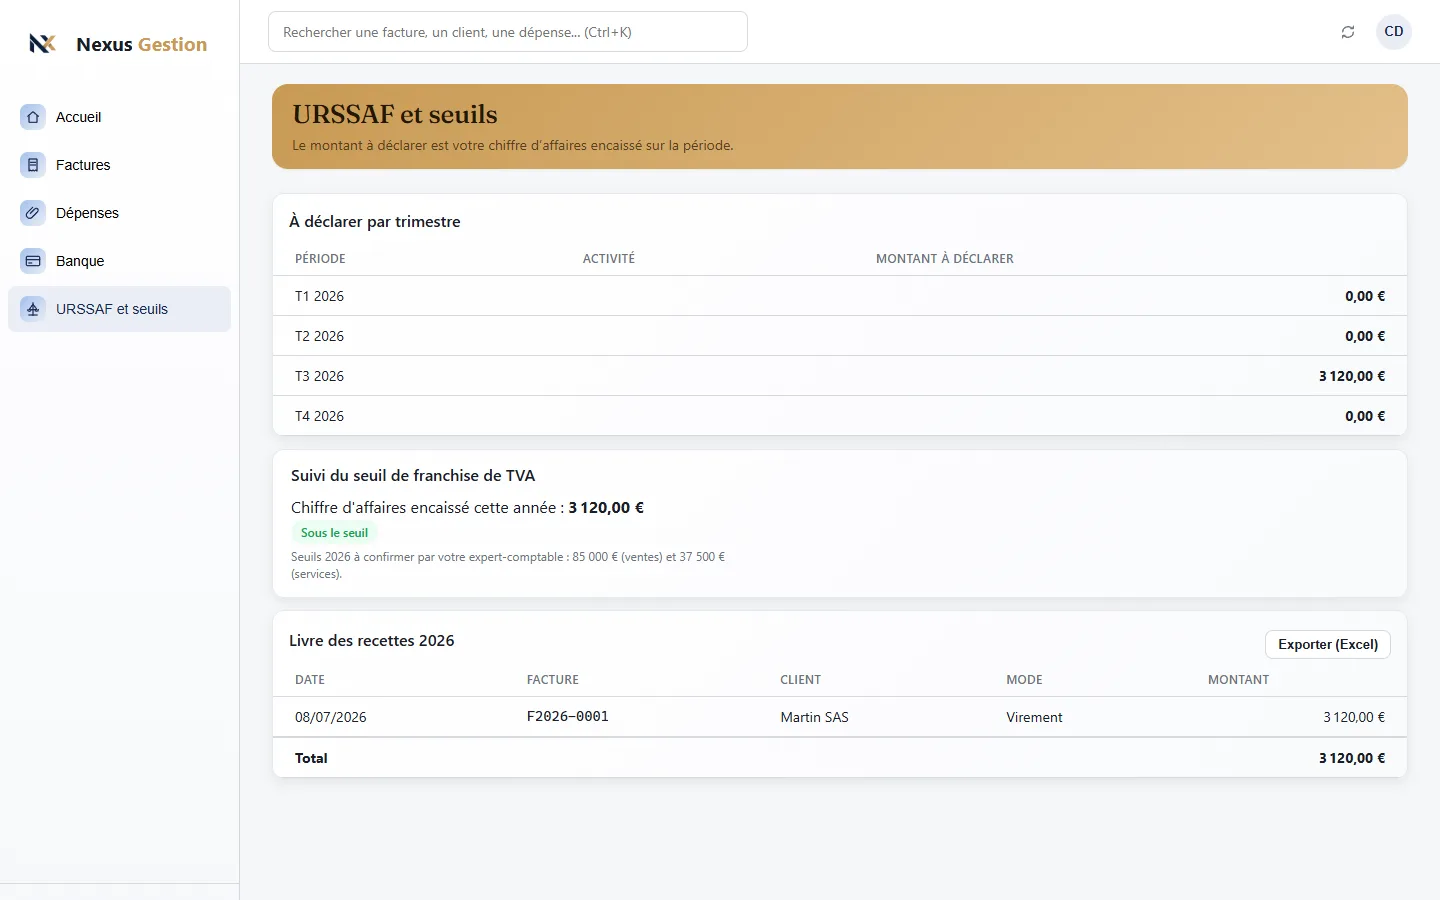
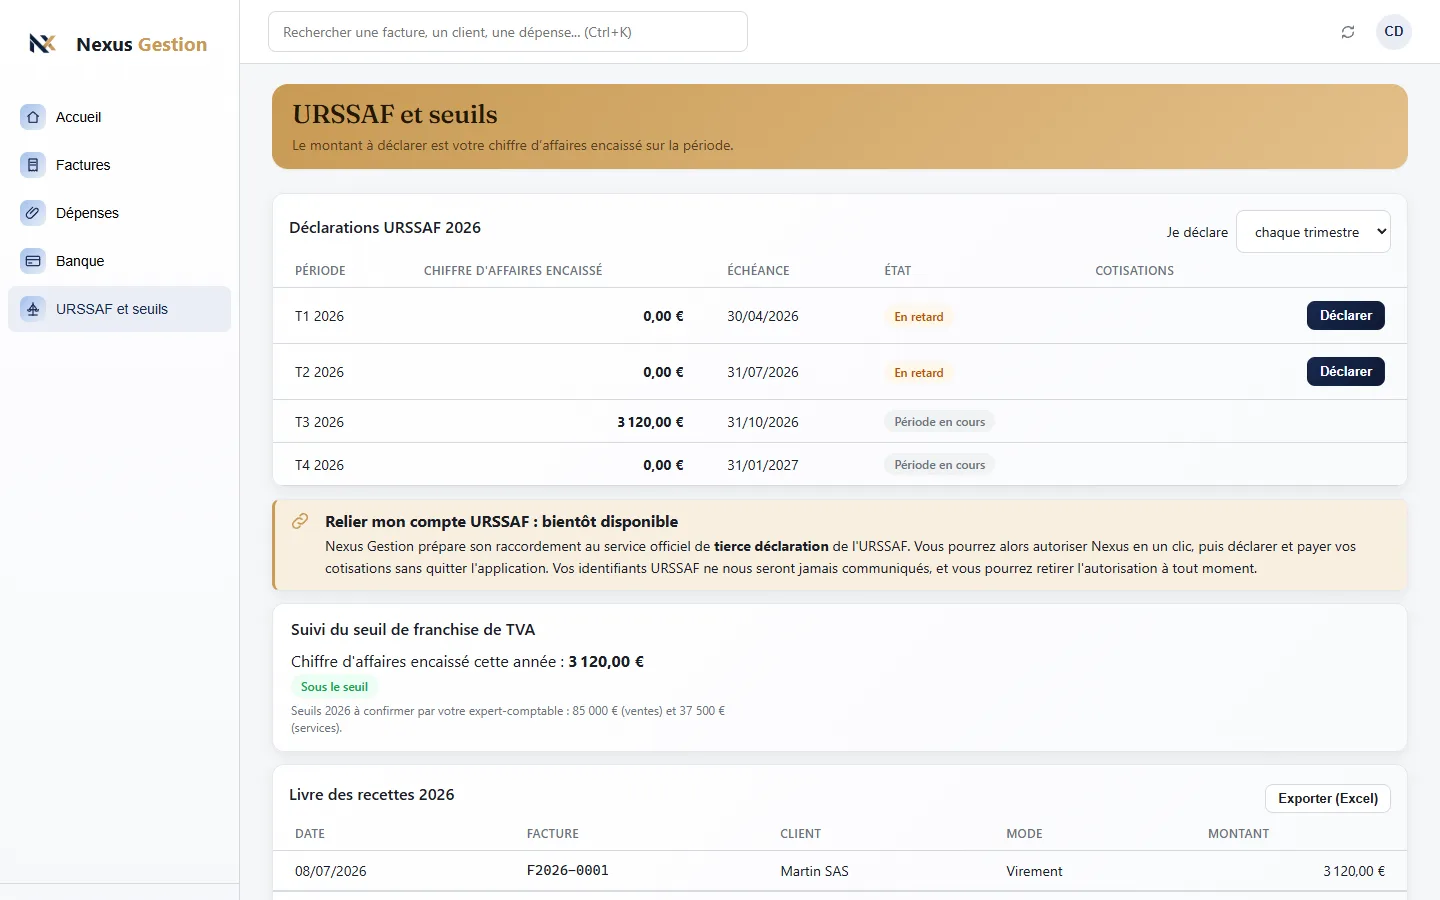
Déclarations URSSAF guidées

diff --git a/app/app.js b/app/app.js
@@ -28,7 +28,7 @@ import { computeTotals, checkInvoice, InvoiceError, isValidSiren, isVatExempt, l
 import { parseBankCsv, parseOfx, reconciliationStatement } from '../core/bank.js';
 import { trialBalance, generalLedger, exportFEC, checkFEC, journalReport } from '../core/reports.js';
 import { JOURNALS, Ledger } from '../core/ledger.js';
-import { declarationPeriods, urssafDeclaration, thresholdStatus, receiptsBook, ACTIVITY_TYPES } from '../core/micro.js';
+import { thresholdStatus, receiptsBook } from '../core/micro.js';
 import { buildCii, checkEn16931, ciiFileName } from '../core/einvoice.js';
 import { trialBalanceCsv, generalLedgerCsv, journalsCsv } from '../core/exports.js';
 import { fixedAssets } from '../core/assets.js';
@@ -957,7 +957,7 @@ function viewHome() {
   const d = ws.dashboard(t);
   const todo = ws.todo(t);
   const kpi = (iconName, value, label, href, hero) => html`<a class="kpi-card${hero ? ' kpi-card-hero' : ''}" href="${href}" style="text-decoration:none;color:inherit"><div class="kpi-icon">${raw(ICONS[iconName])}</div><div class="kpi-value">${eur(value)}</div><div class="kpi-label">${label}</div></a>`;
-  const todoIcon = { bank: 'card', late: 'bell', draft: 'pencil', receipt: 'paperclip', vat: 'percent' };
+  const todoIcon = { bank: 'card', late: 'bell', draft: 'pencil', receipt: 'paperclip', vat: 'percent', urssaf: 'scale' };
   return html`
     <div class="dashboard-hero">
       <div class="dashboard-hero-text"><h1>Accueil</h1><p>Voici ce qui demande votre attention aujourd'hui.</p></div>
@@ -1555,14 +1555,60 @@ function viewCa3(months) {
 
 // ------------------------------------------------------------------ micro-entrepreneur
 
-function microReceipts() {
-  const out = [];
-  for (const inv of ws.book.invoices) {
-    for (const p of ws.book.payments[inv.id] || []) {
-      out.push({ date: p.date, invoiceNumber: inv.number, clientName: inv.client.name, amount: p.amount, method: 'Virement', activity: ws.company.microActivity || 'bnc' });
-    }
-  }
-  return out;
+const microReceipts = () => ws.microReceipts();
+
+const URSSAF_SITE = 'https://www.autoentrepreneur.urssaf.fr/portail/accueil.html';
+const URSSAF_STATUS = {
+  'en-cours': ['Période en cours', 'muted'],
+  'a-declarer': ['À déclarer', 'warning'],
+  'en-retard': ['En retard', 'warning'],
+  declaree: ['Déclarée, à payer', 'info'],
+  'rien-a-payer': ['Déclarée, rien à payer', 'success'],
+  payee: ['Payée', 'success'],
+};
+
+/** Déclarations URSSAF de l'année : montant, échéance, état, et parcours « Déclarer ». */
+function urssafCard(year) {
+  const periods = ws.urssafPeriods(year, today());
+  const open = periods.find((p) => p.from === ui.urssafDeclare);
+  const freq = ws.company.urssafFrequency || 'trimestrielle';
+  return html`<div class="card table-card">
+    <div style="display:flex;justify-content:space-between;align-items:center;gap:12px;flex-wrap:wrap;padding:16px 16px 0">
+      <h2>Déclarations URSSAF ${year}</h2>
+      <label style="display:flex;gap:8px;align-items:center;font-size:14px">Je déclare
+        <select class="input" data-urssaf-frequency style="width:auto">${opt('trimestrielle', 'chaque trimestre', freq === 'trimestrielle')}${opt('mensuelle', 'chaque mois', freq === 'mensuelle')}</select></label>
+    </div>
+    <div class="table-scroll"><table class="table"><thead><tr><th>Période</th><th class="num">Chiffre d'affaires encaissé</th><th>Échéance</th><th>État</th><th class="num">Cotisations</th><th></th></tr></thead><tbody>
+      ${periods.map((p) => html`<tr>
+        <td>${p.label}</td>
+        <td class="num"><strong>${eur(p.turnover)}</strong></td>
+        <td>${frDate(p.deadline)}</td>
+        <td>${badge(...URSSAF_STATUS[p.status])}${p.record?.paidAt ? html` <span class="text-muted" style="font-size:12px">le ${frDate(p.record.paidAt)}</span>` : ''}</td>
+        <td class="num">${p.record ? eur(p.record.contributions) : ''}</td>
+        <td class="num">${p.status === 'a-declarer' || p.status === 'en-retard' ? html`<button class="btn btn-primary btn-sm" data-action="urssaf-declare-open" data-from="${p.from}">Déclarer</button>` : ''}</td>
+      </tr>`)}
+    </tbody></table></div>
+    ${open ? urssafDeclarePanel(open) : ''}
+  </div>`;
+}
+
+function urssafDeclarePanel(p) {
+  return html`<div style="padding:16px;border-top:1px solid var(--color-border);display:flex;flex-direction:column;gap:14px">
+    <h3 style="margin:0">Déclarer ${p.label}</h3>
+    <ol class="landing-steps" style="margin:0">
+      <li><span class="landing-step-num">1</span><span class="landing-step-text">Chiffre d'affaires à déclarer : <strong>${eur(p.turnover)}</strong> (encaissé du ${frDate(p.from)} au ${frDate(p.to)}).
+        <button class="btn btn-secondary btn-sm" data-action="urssaf-copy" data-amount="${(p.turnover / 100).toFixed(2).replace('.', ',')}" style="margin-left:6px">Copier le montant</button></span></li>
+      <li><span class="landing-step-num">2</span><span class="landing-step-text">Déclarez-le sur votre espace URSSAF et validez le paiement par prélèvement.
+        <a class="btn btn-gold btn-sm" href="${URSSAF_SITE}" target="_blank" rel="noopener" style="margin-left:6px">Ouvrir mon espace URSSAF</a></span></li>
+      <li><span class="landing-step-num">3</span><span class="landing-step-text">Reportez ici le montant des cotisations calculé par l'URSSAF :</span></li>
+    </ol>
+    <div style="display:flex;gap:8px;align-items:flex-end;flex-wrap:wrap">
+      ${field('Cotisations calculées par l’URSSAF', html`<input class="input" data-urssaf-contributions inputmode="decimal" placeholder="0,00" style="max-width:200px">`)}
+      <button class="btn btn-primary" data-action="urssaf-declare" data-from="${p.from}" style="margin-bottom:2px">Enregistrer la déclaration</button>
+      <button class="btn btn-secondary" data-action="urssaf-declare-cancel" style="margin-bottom:2px">Annuler</button>
+    </div>
+    <p class="form-hint" style="margin:0">Quand le prélèvement apparaît sur votre relevé, classez-le en « Cotisations URSSAF » dans l'écran Banque : la déclaration passe automatiquement à « Payée ».</p>
+  </div>`;
 }
 
 function thresholdCard(s) {
@@ -1577,8 +1623,12 @@ function viewUrssaf() {
   const book = receiptsBook(receipts, { from: `${year}-01-01`, to: `${year}-12-31` });
   return html`
     ${viewHeader('URSSAF et seuils', 'Le montant à déclarer est votre chiffre d’affaires encaissé sur la période.')}
-    <div class="card table-card"><h2 style="padding:16px 16px 0">À déclarer par trimestre</h2><table class="table"><thead><tr><th>Période</th><th>Activité</th><th class="num">Montant à déclarer</th></tr></thead><tbody>
-      ${declarationPeriods(year).map((p) => html`<tr><td>${p.label}</td><td>${ACTIVITY_TYPES[ws.company.microActivity]?.label}</td><td class="num"><strong>${eur(urssafDeclaration(receipts, p).total)}</strong></td></tr>`)}</tbody></table></div>
+    ${urssafCard(year)}
+    <div class="card notice-gold" style="display:flex;gap:14px;align-items:flex-start">
+      <span style="color:var(--landing-gold-500)">${icon('link', 22)}</span>
+      <div><h3 style="margin:0 0 4px">Relier mon compte URSSAF : bientôt disponible</h3>
+      <p style="margin:0;font-size:14px;line-height:1.6">Nexus Gestion prépare son raccordement au service officiel de <strong>tierce déclaration</strong> de l'URSSAF. Vous pourrez alors autoriser Nexus en un clic, puis déclarer et payer vos cotisations sans quitter l'application. Vos identifiants URSSAF ne nous seront jamais communiqués, et vous pourrez retirer l'autorisation à tout moment.</p></div>
+    </div>
     <div class="card">${thresholdCard(thresholdStatus(receipts, year))}</div>
     <div class="card table-card">
       <div class="view-header-row" style="display:flex;justify-content:space-between;align-items:center;padding:16px 16px 0"><h2>Livre des recettes ${year}</h2><button class="btn btn-secondary btn-sm" data-action="export-receipts">Exporter (Excel)</button></div>
@@ -2010,6 +2060,12 @@ document.addEventListener('input', (e) => {
 document.addEventListener('change', async (e) => {
   const el = e.target;
   if (el.dataset.statement !== undefined) return render();
+  if (el.dataset.urssafFrequency !== undefined) {
+    ws.company.urssafFrequency = el.value;
+    ui.urssafDeclare = null;
+    save();
+    return render();
+  }
   if (el.dataset.action === 'settings-fec-file' && el.files[0]) {
     try {
       ui.pendingOpening = { opening: await readOpeningFile(el.files[0]), fileName: el.files[0].name };
@@ -2488,6 +2544,34 @@ document.addEventListener('click', async (e) => {
         toast(err.message, true);
       }
       return;
+    case 'urssaf-declare-open':
+      ui.urssafDeclare = el.dataset.from;
+      return render();
+    case 'urssaf-declare-cancel':
+      ui.urssafDeclare = null;
+      return render();
+    case 'urssaf-copy':
+      try {
+        await navigator.clipboard.writeText(el.dataset.amount);
+        toast(`Montant copié : ${el.dataset.amount} €`);
+      } catch {
+        toast(`Montant à déclarer : ${el.dataset.amount} €`);
+      }
+      return;
+    case 'urssaf-declare': {
+      const p = ws.urssafPeriods(Number(el.dataset.from.slice(0, 4)), today()).find((x) => x.from === el.dataset.from);
+      const raw = document.querySelector('[data-urssaf-contributions]').value.trim();
+      if (!raw) return toast('Indiquez le montant des cotisations calculé par l’URSSAF (0 si aucun chiffre d’affaires).', true);
+      try {
+        ws.recordUrssafDeclaration({ from: p.from, to: p.to, turnover: p.turnover, contributions: parseEuros(raw), date: today() });
+      } catch (err) {
+        return toast(err.message.startsWith('Montant invalide') ? 'Le montant des cotisations n’est pas valide.' : err.message, true);
+      }
+      ui.urssafDeclare = null;
+      save();
+      render();
+      return toast(`Déclaration ${p.label} enregistrée.`);
+    }
     case 'archive-open':
       return openArchive(el.dataset.key).catch((err) => toast(cloud.friendly(err), true));
     case 'archive-fec':

diff --git a/core/workspace.js b/core/workspace.js
@@ -13,6 +13,7 @@ import { divRound, splitTtc, sum } from './money.js';
 import { openingEntry } from './fecimport.js';
 import { prepareCa3, prepareCa12, ca12Advances, liquidationEntry } from './vatreturn.js';
 import { LIFECYCLE } from './lifecycle.js';
+import { declarationPeriods, urssafDeclaration, urssafDeadline } from './micro.js';
 import { inventoryEntry, depreciationEntry, incomeStatement, corporateTax, corporateTaxEntry, resultEntry, nextYearOpening, allocationEntry } from './closing.js';
 import { validateTemplate, dueOccurrences, periodLabel } from './recurring.js';
 
@@ -31,6 +32,7 @@ export const OUTFLOW_CATEGORIES = [
   { id: 'paiement-tva', label: 'Paiement de la TVA', account: '445510' },
   { id: 'acompte-tva', label: 'Acompte de TVA (régime simplifié, juillet ou décembre)', account: '445810' },
   { id: 'acompte-is', label: 'Acompte ou solde d’impôt sur les sociétés', account: '444000' },
+  { id: 'cotisations-urssaf', label: 'Cotisations URSSAF', account: '646000' },
   { id: 'remboursement-emprunt', label: "Remboursement d'emprunt (capital)", account: '164000' },
   { id: 'prelevement-personnel', label: 'Prélèvement personnel du dirigeant', account: '108000' },
   { id: 'remboursement-associe', label: 'Remboursement du compte courant d’associé', account: '455000' },
@@ -408,6 +410,7 @@ export class Workspace {
       const e = this.ledger.addDraft(directEntry(tx, { account: income.account, missingReceipt: false }));
       tx.status = 'matched';
       tx.entryId = e.id;
+      if (categoryId === 'cotisations-urssaf') this.#markUrssafPaid(tx);
       return e;
     }
     const cat = categoryById(categoryId);
@@ -456,6 +459,66 @@ export class Workspace {
   }
 
   /** Liste « À faire » classée par urgence (§5). */
+  // ---------------------------------------------------------------- URSSAF (micro-entrepreneur)
+
+  /** Encaissements de l'année (base du chiffre d'affaires à déclarer en micro-entreprise). */
+  microReceipts() {
+    const out = [];
+    for (const inv of this.book.invoices) {
+      for (const p of this.book.payments[inv.id] || []) {
+        out.push({ date: p.date, invoiceNumber: inv.number, clientName: inv.client.name, amount: p.amount, method: 'Virement', activity: this.company.microActivity || 'bnc' });
+      }
+    }
+    return out;
+  }
+
+  get urssafDeclarations() {
+    return this.company.urssafDeclarations || [];
+  }
+
+  /** Périodes de l'année avec leur montant, leur échéance et leur état (à déclarer, déclarée, payée). */
+  urssafPeriods(year, today) {
+    const receipts = this.microReceipts();
+    // Rien avant le premier exercice tenu dans Nexus (les périodes antérieures ont été déclarées ailleurs).
+    const since = this.archives?.[0]?.fiscalYear.start || this.company.fiscalYear.start;
+    return declarationPeriods(year, this.company.urssafFrequency || 'trimestrielle').filter((p) => p.to >= since).map((p) => {
+      const record = this.urssafDeclarations.find((r) => r.from === p.from);
+      const deadline = urssafDeadline(p);
+      const status = record && !record.contributions ? 'rien-a-payer' : record?.paidAt ? 'payee' : record ? 'declaree' : p.to >= today ? 'en-cours' : deadline < today ? 'en-retard' : 'a-declarer';
+      return { ...p, turnover: urssafDeclaration(receipts, p).total, deadline, record, status };
+    });
+  }
+
+  /** Enregistre la déclaration faite sur autoentrepreneur.urssaf.fr (chiffre d'affaires et cotisations calculées par l'URSSAF). */
+  recordUrssafDeclaration({ from, to, turnover, contributions, date }) {
+    if (this.urssafDeclarations.some((r) => r.from === from)) throw new Error('Cette période a déjà été déclarée.');
+    if (!Number.isSafeInteger(contributions) || contributions < 0) throw new Error('Le montant des cotisations est invalide.');
+    const record = { from, to, turnover, contributions, declaredAt: date, paidAt: null, txId: null };
+    this.company.urssafDeclarations = [...this.urssafDeclarations, record];
+    return record;
+  }
+
+  /** Un prélèvement « Cotisations URSSAF » solde la plus ancienne déclaration non payée du même montant. */
+  #markUrssafPaid(tx) {
+    const record = [...this.urssafDeclarations]
+      .sort((a, b) => a.from.localeCompare(b.from))
+      .find((r) => !r.paidAt && r.contributions === Math.abs(tx.amount));
+    if (!record) return;
+    this.company.urssafDeclarations = this.urssafDeclarations.map((r) => (r === record ? { ...r, paidAt: tx.date, txId: tx.id } : r));
+  }
+
+  #urssafTodo(today) {
+    if (!this.company.taxRegime?.startsWith('micro')) return [];
+    const year = Number(today.slice(0, 4));
+    const periods = [...this.urssafPeriods(year - 1, today), ...this.urssafPeriods(year, today)];
+    const pending = periods.find((p) => p.status === 'en-retard' || p.status === 'a-declarer');
+    if (!pending) return [];
+    const fr = (d) => d.split('-').reverse().join('/');
+    return [{ urgency: pending.status === 'en-retard' ? 3 : 2, kind: 'urssaf', view: 'urssaf', text: pending.status === 'en-retard'
+      ? `Déclaration URSSAF ${pending.label} en retard (échéance du ${fr(pending.deadline)})`
+      : `Déclarer votre chiffre d'affaires ${pending.label} à l'URSSAF avant le ${fr(pending.deadline)}` }];
+  }
+
   todo(today) {
     const items = [];
     const open = this.transactions.filter((t) => t.status === 'open');
@@ -469,6 +532,7 @@ export class Workspace {
     const noReceipt = this.transactions.filter((t) => t.missingReceipt);
     if (noReceipt.length) items.push({ urgency: 1, kind: 'receipt', view: 'banque', text: `${noReceipt.length} dépense${noReceipt.length > 1 ? 's' : ''} sans justificatif` });
     items.push(...this.#vatTodo(today));
+    items.push(...this.#urssafTodo(today));
     return items.sort((a, b) => b.urgency - a.urgency);
   }
 

diff --git a/app/features.js b/app/features.js
@@ -197,13 +197,15 @@ export const FEATURE_PAGES = [
     slug: 'micro',
     icon: 'scale',
     title: 'Micro-entrepreneur',
-    text: 'Livre des recettes, montant à déclarer à l’URSSAF chaque trimestre et alerte avant de dépasser les seuils de TVA.',
+    text: 'Livre des recettes, déclaration URSSAF guidée et suivie jusqu’au paiement, alerte avant de dépasser les seuils de TVA.',
     lead: 'La micro-entreprise a ses propres règles : pas de comptabilité complète, mais un livre des recettes, une déclaration à l’URSSAF et des seuils à surveiller. Nexus s’adapte et vous montre uniquement ce qui vous concerne.',
     images: [
-      { src: 'features/micro.webp', alt: 'Écran URSSAF et seuils : montants à déclarer par trimestre, suivi du seuil de TVA et livre des recettes', caption: 'Tout sur un seul écran : le montant à déclarer à l’URSSAF pour chaque trimestre, votre position par rapport au seuil de franchise de TVA et votre livre des recettes.' },
+      { src: 'features/micro.webp', alt: 'Écran URSSAF et seuils : montants à déclarer par trimestre, suivi du seuil de TVA et livre des recettes', caption: 'Chaque période avec son chiffre d’affaires encaissé, son échéance et son état (à déclarer, en retard, déclarée, payée). Le bouton « Déclarer » ouvre le parcours guidé.' },
     ],
     benefits: [
-      { title: 'Le montant URSSAF prêt chaque trimestre', text: 'Le montant à déclarer est votre chiffre d’affaires réellement encaissé sur la période, et non facturé. Nexus le calcule à partir des paiements reçus, trimestre par trimestre.' },
+      { title: 'Le montant URSSAF prêt chaque trimestre ou chaque mois', text: 'Le montant à déclarer est votre chiffre d’affaires réellement encaissé sur la période, et non facturé. Nexus le calcule à partir des paiements reçus, selon votre rythme de déclaration (trimestriel ou mensuel).' },
+      { title: 'Déclaration guidée, suivie jusqu’au paiement', text: 'Un bouton « Déclarer » copie le montant, ouvre votre espace URSSAF et vous invite à reporter les cotisations calculées. Chaque période affiche son échéance et son état : à déclarer, en retard, déclarée, payée. Le prélèvement de l’URSSAF, classé en « Cotisations URSSAF » dans Banque, solde automatiquement la déclaration.' },
+      { title: 'Rappel avant chaque échéance', text: 'La prochaine déclaration apparaît dans votre liste « À faire » avec sa date limite (30 avril, 31 juillet, 31 octobre, 31 janvier au trimestre). Passé ce délai, l’alerte passe en tête de liste.' },
       { title: 'Livre des recettes tenu automatiquement', text: 'Chaque encaissement est inscrit avec sa date, la facture, le client et le mode de paiement. Le livre est exportable en Excel à tout moment, comme l’exige la loi.' },
       { title: 'Surveillance des seuils de TVA', text: 'Nexus suit votre chiffre d’affaires encaissé de l’année et vous alerte à 80 % du seuil de franchise, puis en cas de dépassement du seuil de base ou du seuil majoré, avec ce que cela implique pour votre TVA.' },
       { title: 'Activité mixte prise en compte', text: 'Vous vendez des biens et des services ? Les deux seuils sont suivis séparément, comme le prévoit la règle.' },
@@ -213,8 +215,8 @@ export const FEATURE_PAGES = [
     steps: [
       'À l’inscription, indiquez que vous êtes micro-entrepreneur : Nexus adapte les écrans et les factures.',
       'Émettez vos factures et importez votre relevé bancaire pour enregistrer les encaissements.',
-      'À la fin du trimestre, ouvrez « URSSAF et seuils » : le montant à déclarer est affiché.',
-      'Recopiez-le sur autoentrepreneur.urssaf.fr et exportez votre livre des recettes si besoin.',
+      'À la fin du trimestre, Nexus vous le rappelle : ouvrez « URSSAF et seuils » et cliquez sur « Déclarer ».',
+      'Copiez le montant, déclarez-le sur votre espace URSSAF, puis reportez les cotisations dans Nexus : la période passe « Déclarée », puis « Payée » au prélèvement.',
     ],
     audience: [
       { role: 'Freelances et indépendants', text: 'Des factures professionnelles et une déclaration URSSAF sans calcul.' },
@@ -223,7 +225,7 @@ export const FEATURE_PAGES = [
     ],
     faq: [
       { q: 'Pourquoi le montant URSSAF est-il différent de ce que j’ai facturé ?', a: 'En micro-entreprise, on déclare ce qui a été encaissé, pas ce qui a été facturé. Une facture émise en mars mais payée en avril compte pour le deuxième trimestre.' },
-      { q: 'Nexus déclare-t-il à ma place ?', a: 'Non : vous recopiez le montant sur le site de l’URSSAF, cela prend une minute. Nexus vous évite le calcul et les erreurs.' },
+      { q: 'Puis-je déclarer et payer directement depuis Nexus ?', a: 'Aujourd’hui, Nexus prépare tout et vous guide : le montant se copie en un clic et votre espace URSSAF s’ouvre directement. La déclaration et le paiement sans quitter Nexus arriveront avec son raccordement au service officiel de tierce déclaration de l’URSSAF : vous autoriserez alors Nexus en un clic, sans jamais nous confier vos identifiants.' },
       { q: 'Que se passe-t-il si je dépasse le seuil de TVA ?', a: 'Nexus vous prévient dès 80 % du seuil. En cas de dépassement, il vous indique si la franchise est perdue immédiatement ou l’année suivante, pour que vous puissiez en parler à votre expert-comptable.' },
     ],
     related: ['factures', 'banque', 'relances'],

diff --git a/core/micro.js b/core/micro.js
@@ -52,6 +52,15 @@ export function declarationPeriods(year, frequency = 'trimestrielle') {
   return [1, 2, 3, 4].map((q) => ({ label: `T${q} ${year}`, from: `${year}-${pad(q * 3 - 2)}-01`, to: `${year}-${pad(q * 3)}-${lastDay(q * 3)}` }));
 }
 
+/**
+ * Date limite de déclaration et de paiement URSSAF d'une période : dernier jour du mois qui suit
+ * la fin du trimestre (30 avril, 31 juillet, 31 octobre, 31 janvier) ou du mois déclaré.
+ */
+export function urssafDeadline(period) {
+  const [y, m] = period.to.split('-').map(Number);
+  return new Date(Date.UTC(y, m + 1, 0)).toISOString().slice(0, 10);
+}
+
 /** Montants à déclarer à l'URSSAF par type d'activité sur une période (chiffre d'affaires encaissé). */
 export function urssafDeclaration(receipts, period) {
   const inPeriod = receipts.filter((r) => r.date >= period.from && r.date <= period.to);
